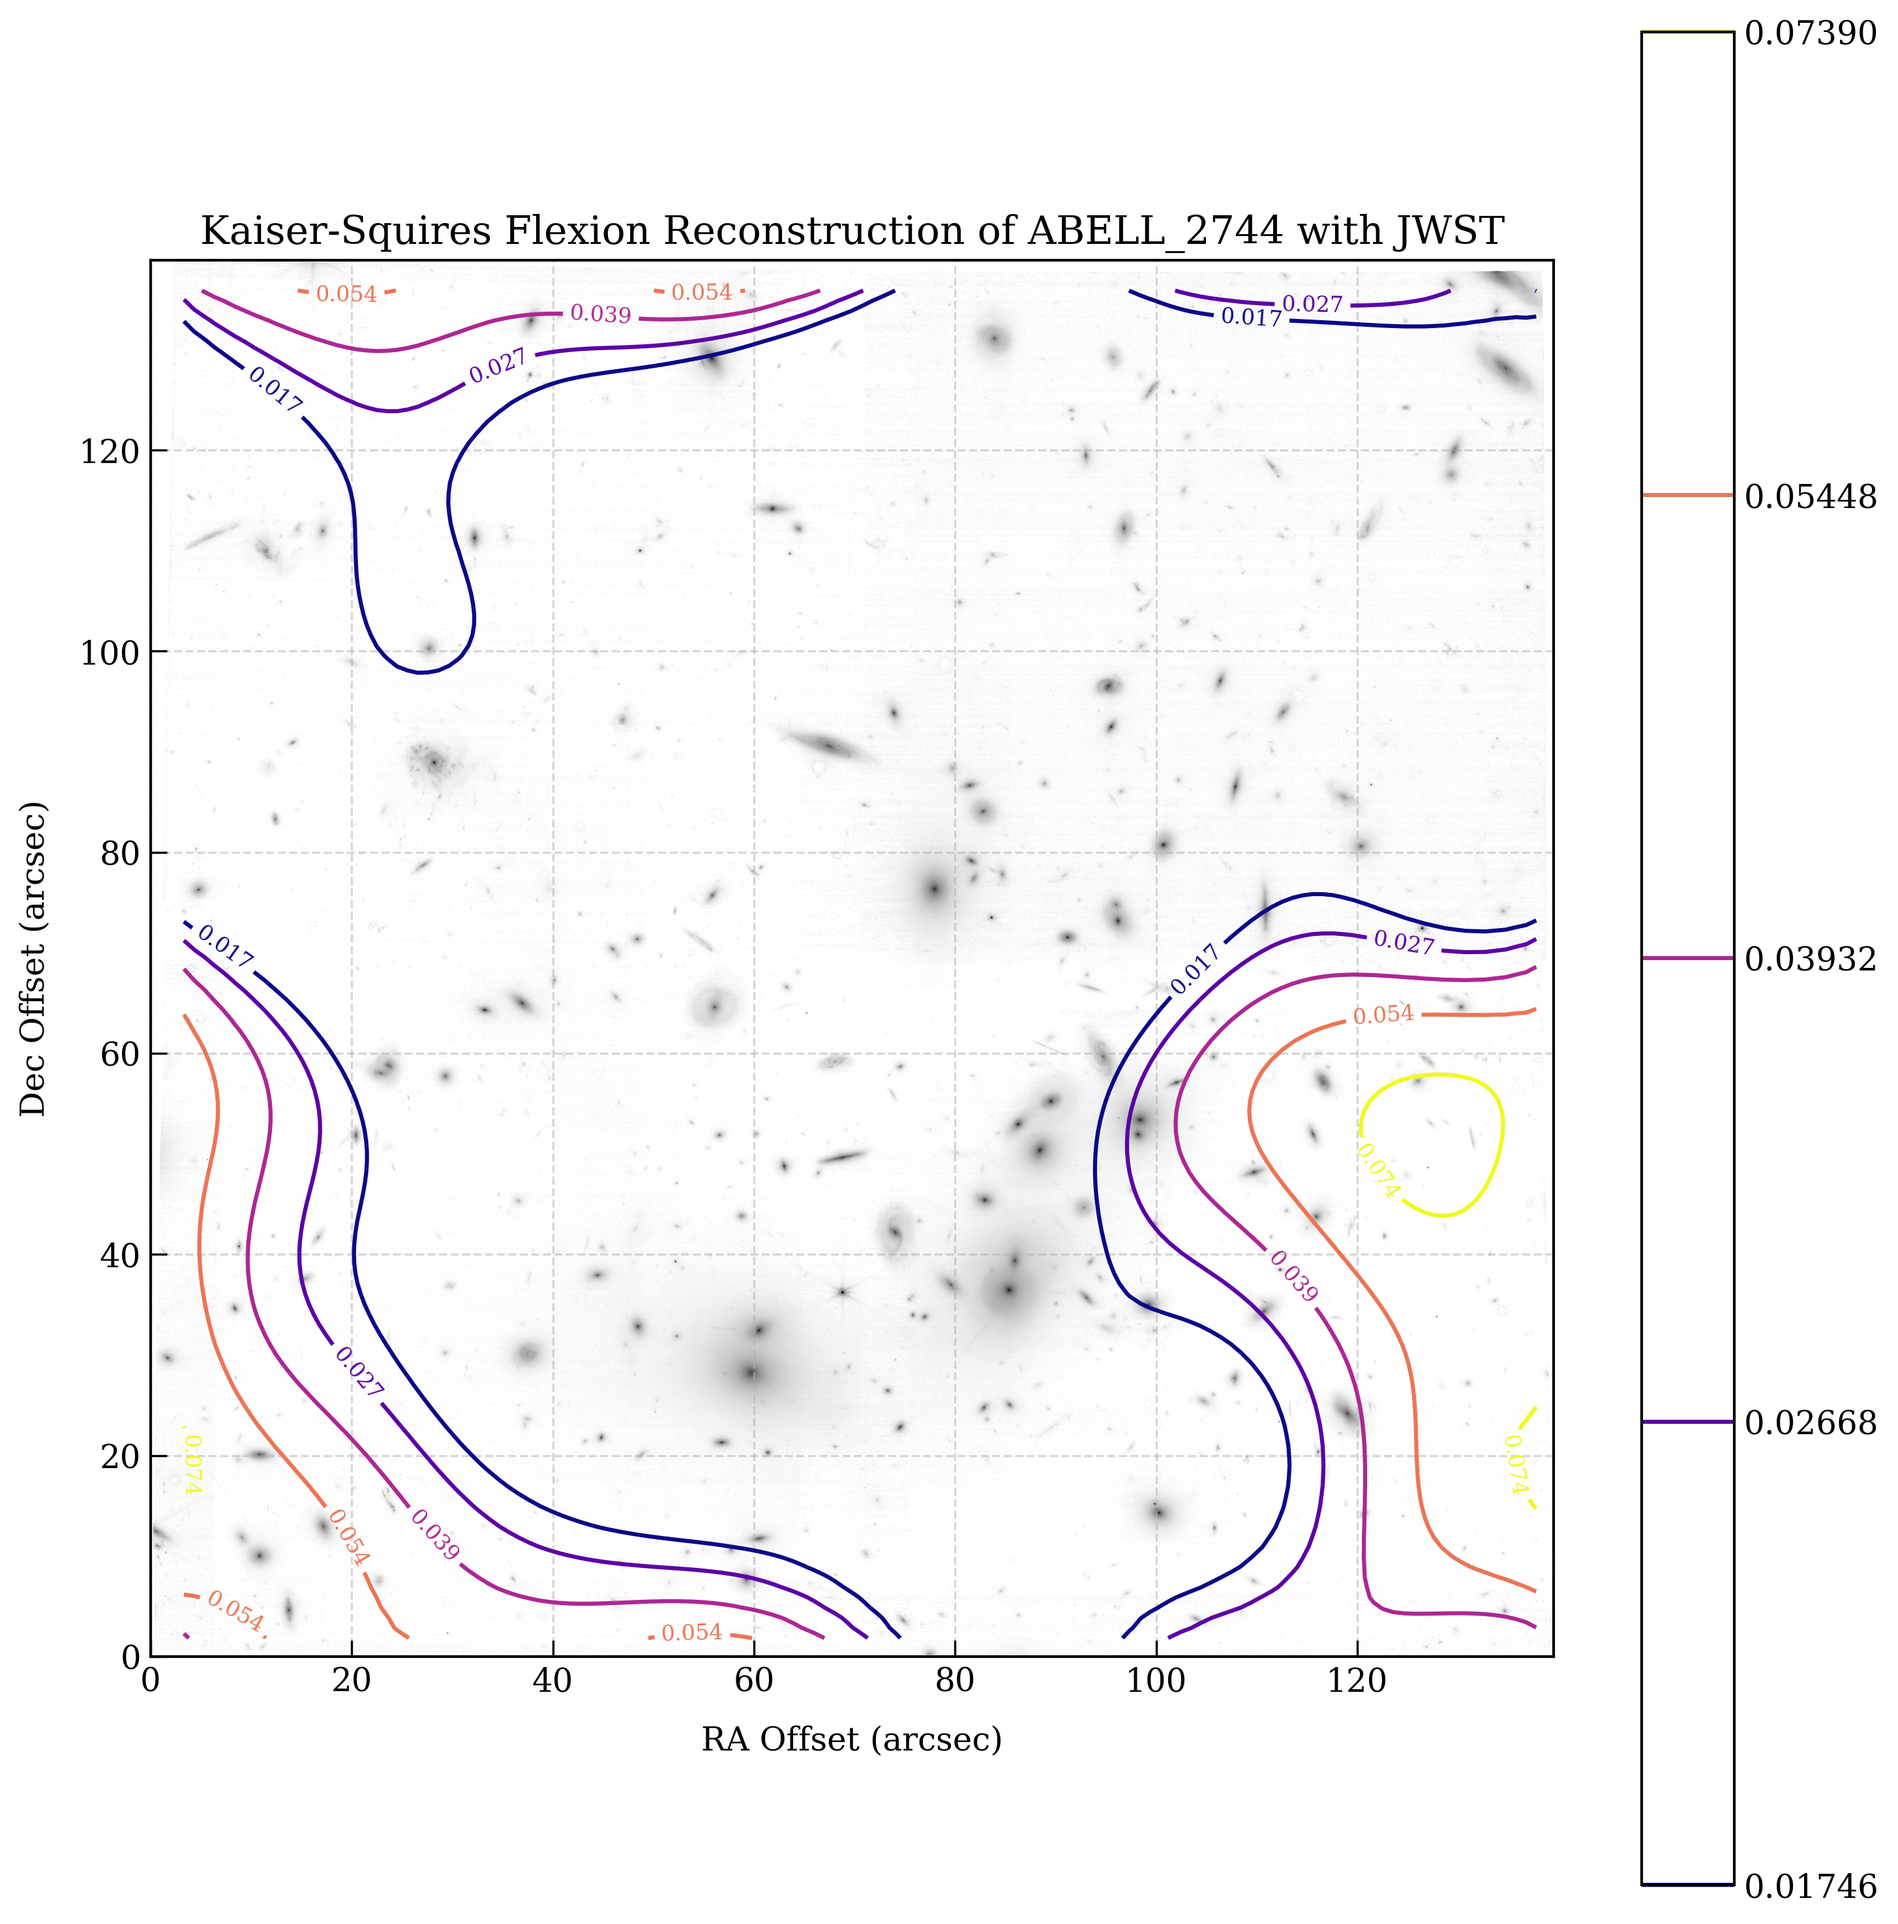
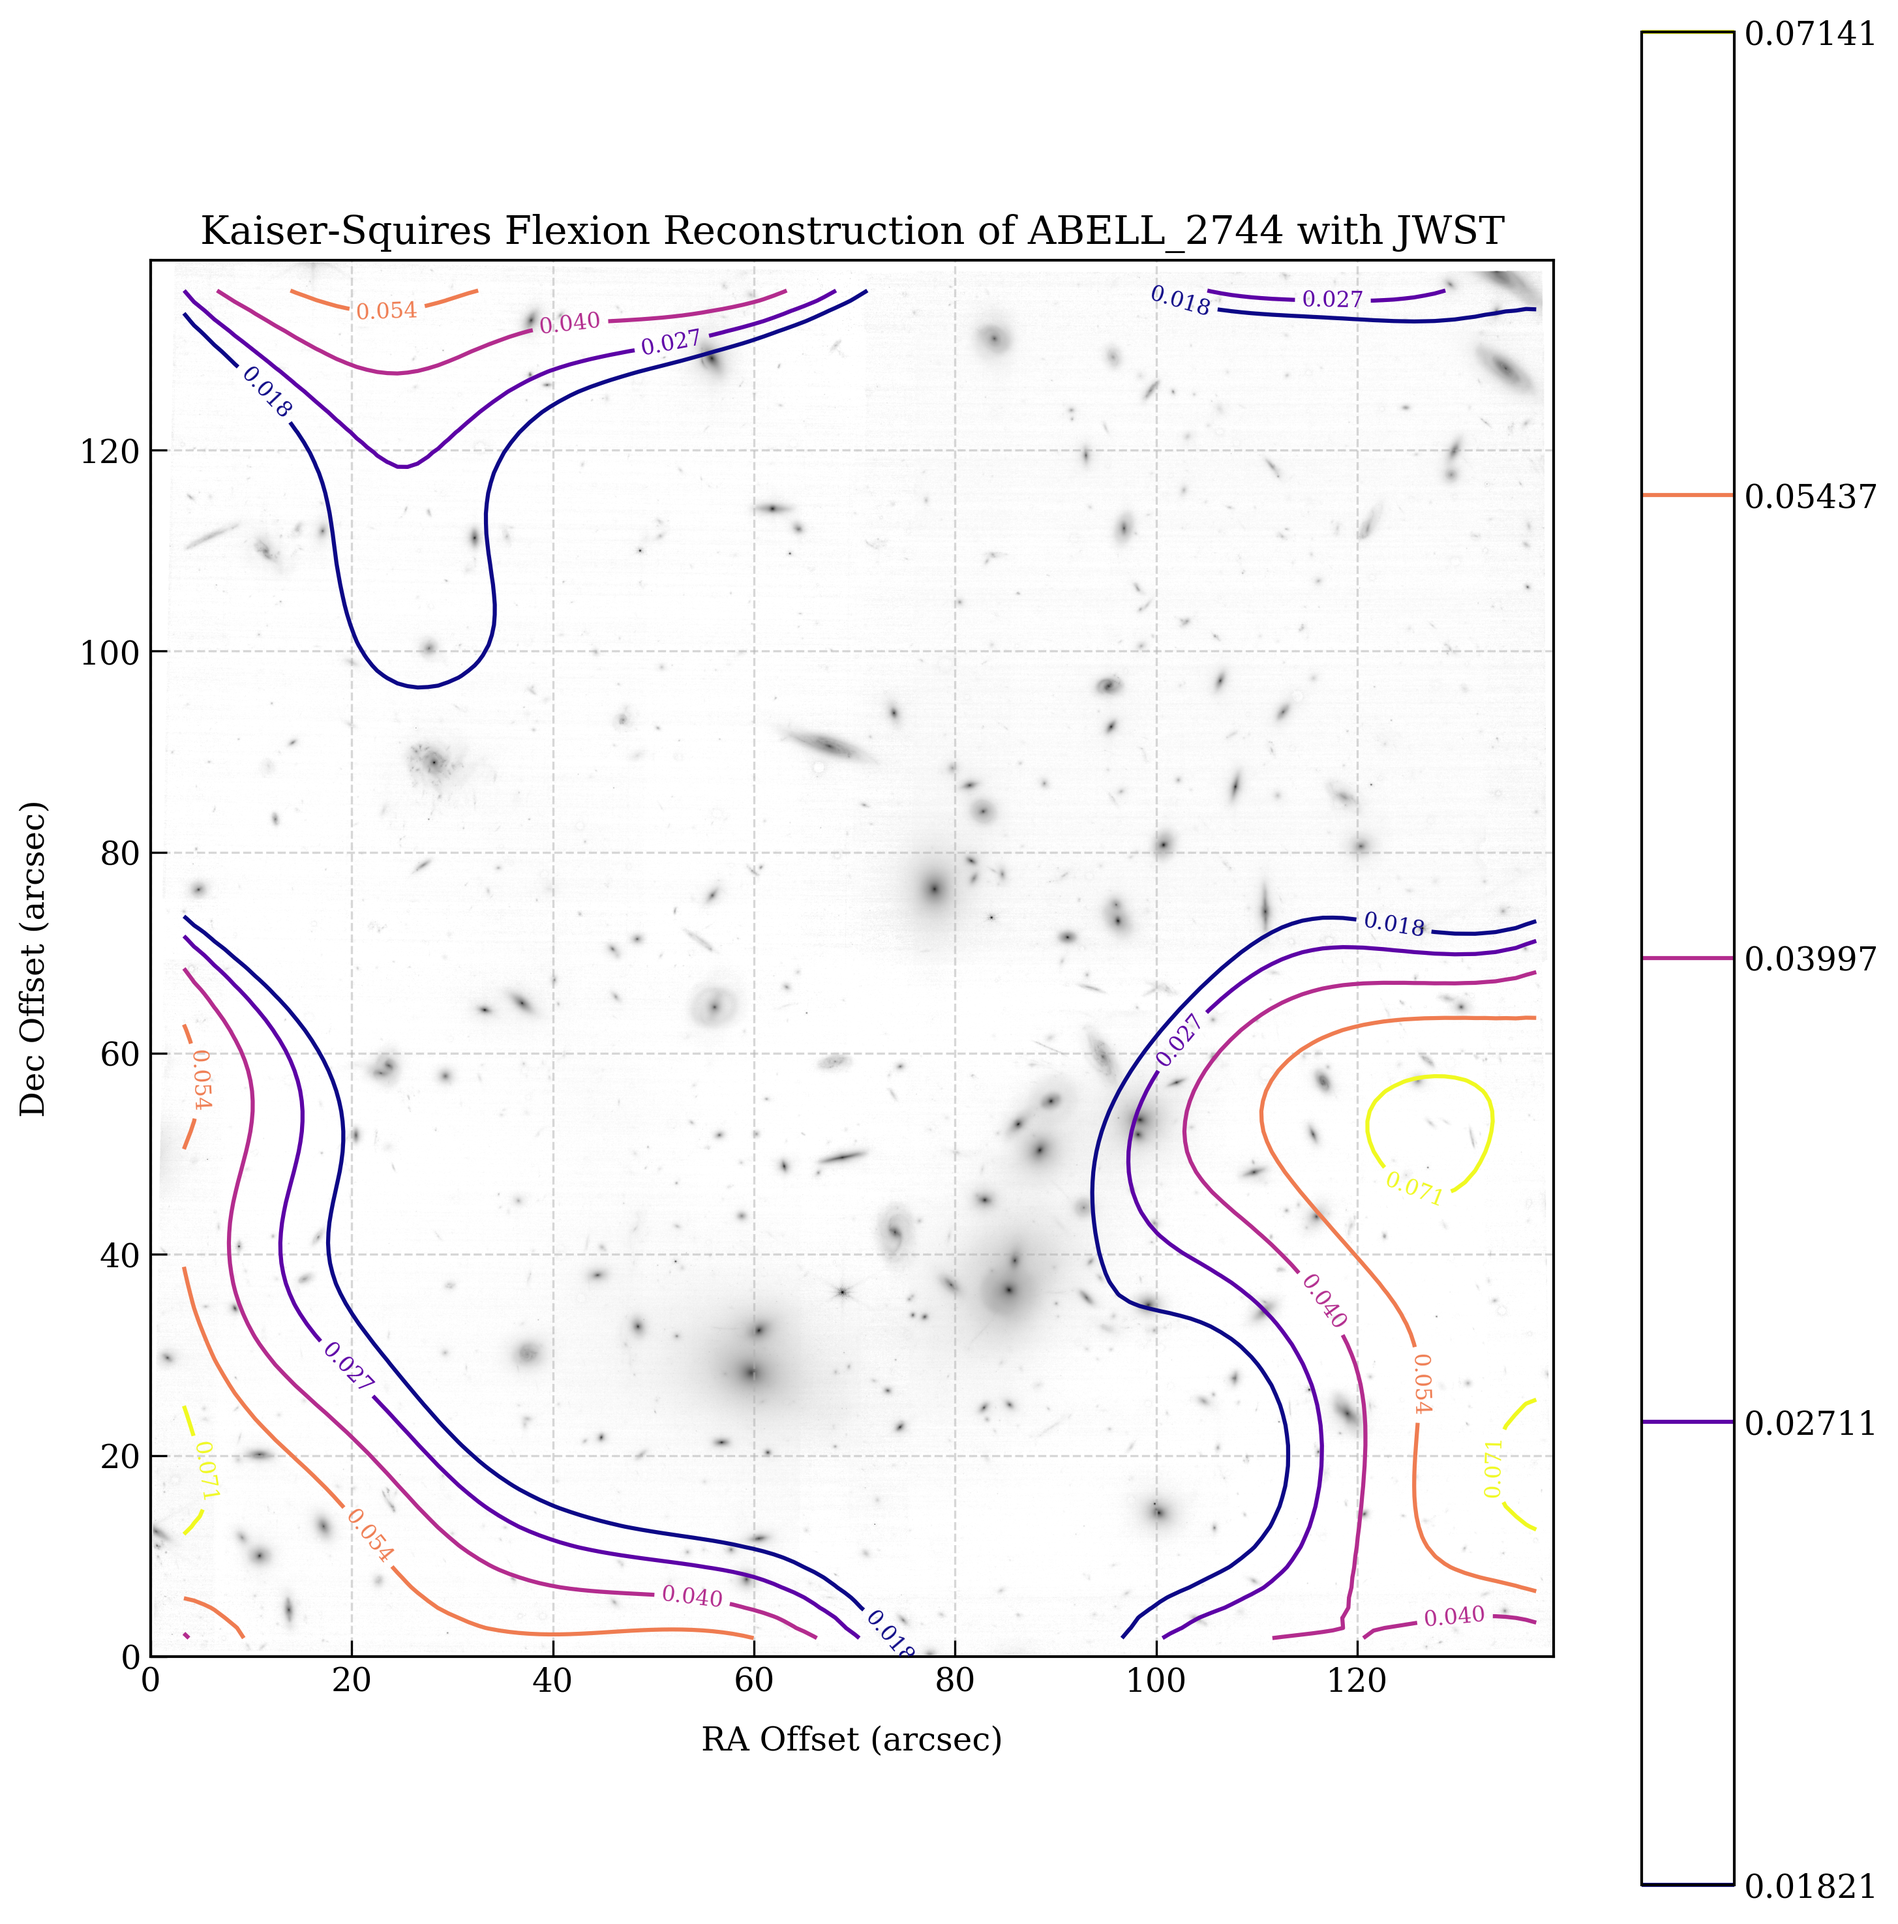
Comment out lens fitting and centroid adjustments in JWSTPipeline for debugging

diff --git a/read_jwst.py b/read_jwst.py
@@ -89,7 +89,7 @@ class JWSTPipeline:
         self.read_source_catalog()
         self.match_sources()
         self.initialize_sources()
-        self.run_lens_fitting()
+        # self.run_lens_fitting()
         # self.save_results()
         self.plot_results()
 
@@ -204,8 +204,8 @@ class JWSTPipeline:
         # Center coordinates (necessary for pipeline)
         self.centroid_x = np.mean(self.xc) # Store centroid for later use
         self.centroid_y = np.mean(self.yc)
-        self.xc -= self.centroid_x
-        self.yc -= self.centroid_y
+        #self.xc -= self.centroid_x
+        #self.yc -= self.centroid_y
 
         # Use dummy values for uncertainties to initialize Source object
         dummy = np.ones_like(e1) 
@@ -221,7 +221,7 @@ class JWSTPipeline:
         )
         
         sigs = np.full_like(self.sources.e1, np.mean([np.std(self.sources.e1), np.std(self.sources.e2)]))
-        sigaf = np.mean([np.std(self.a * self.sources.f1), np.std(self.a * self.sources.f2)])
+        sigaf = np.mean([np.std(self.a * self.sources.f1), np.std(self.a * self.sources.f2)]) 
         sigag = np.mean([np.std(self.a * self.sources.g1), np.std(self.a * self.sources.g2)])
         sigf, sigg = sigaf / self.a, sigag / self.a
 
@@ -258,9 +258,11 @@ class JWSTPipeline:
         ]
         
         # Calculate convergence map
+        '''
         X, Y, kappa = utils.calculate_kappa(
             self.lenses, extent=img_extent, lens_type='NFW', source_redshift=z_source
         )
+        '''
         
         # Plot settings
         def plot_cluster(convergence, title, save_name):
@@ -296,8 +298,8 @@ class JWSTPipeline:
             plt.savefig(save_name, dpi=300)
 
         # Plot the cluster
-        title = r'Mass Reconstruction of {} with JWST - {}'.format(self.cluster_name, self.signal_choice) + '\n' + r'Total Mass = {:.2e} $h^{{-1}} M_\odot$'.format(np.sum(self.lenses.mass))
-        plot_cluster([X,Y,kappa], title, self.output_dir / '{}_clu_{}.png'.format(self.cluster_name, self.signal_choice))
+        # title = r'Mass Reconstruction of {} with JWST - {}'.format(self.cluster_name, self.signal_choice) + '\n' + r'Total Mass = {:.2e} $h^{{-1}} M_\odot$'.format(np.sum(self.lenses.mass))
+        # plot_cluster([X,Y,kappa], title, self.output_dir / '{}_clu_{}.png'.format(self.cluster_name, self.signal_choice))
 
         # Compare mass estimates
         # utils.compare_mass_estimates(self.lenses, self.output_dir / 'mass_{}_{}.png'.format(self.cluster_name, self.signal_choice), 
@@ -309,6 +311,22 @@ class JWSTPipeline:
             avg_source_density = len(self.sources.x) / (np.pi/4 * np.max(np.hypot(self.sources.x, self.sources.y))**2)
             smoothing_scale = 1 / (avg_source_density)**0.5
             kappa_extent = [min(self.sources.x), max(self.sources.x), min(self.sources.y), max(self.sources.y)]
+
+            '''
+            # Override the sources with a custom set of lenses, to see if the reconstruction works with known mass
+            xl = [60,80,100]
+            yl = [30,40,50]
+            ml = [1e13, 1e14, 1e13] # Masses in M_sun h^-1
+            self.lenses = halo_obj.NFW_Lens(
+                x=np.array(xl), y=np.array(yl), z=np.zeros(len(xl)),
+                concentration=np.ones(len(xl)), mass=np.array(ml),
+                redshift=z_cluster, chi2=np.zeros(len(xl))
+            )
+            self.lenses.calculate_concentration()
+            self.sources.zero_lensing_signals()  # Reset lensing signals to zero for reconstruction
+            self.sources.apply_noise()  # Apply noise to the sources
+            self.sources.apply_lensing(self.lenses, lens_type='NFW', z_source=z_source)
+            '''
 
             X, Y, kappa_flexion = utils.perform_kaiser_squire_reconstruction(self.sources, extent=kappa_extent, signal='flexion', smoothing_scale=10, resolution_scale=1.0)
             title = 'Kaiser-Squires Flexion Reconstruction of {} with JWST'.format(self.cluster_name)
